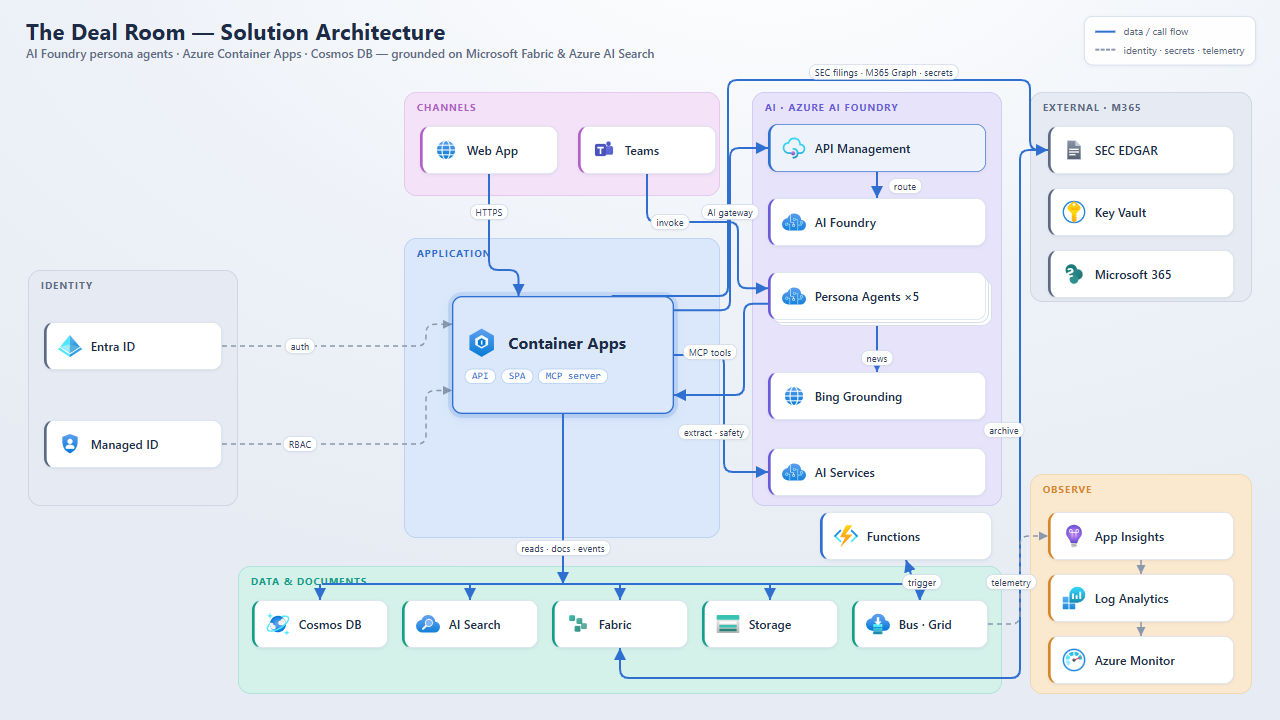
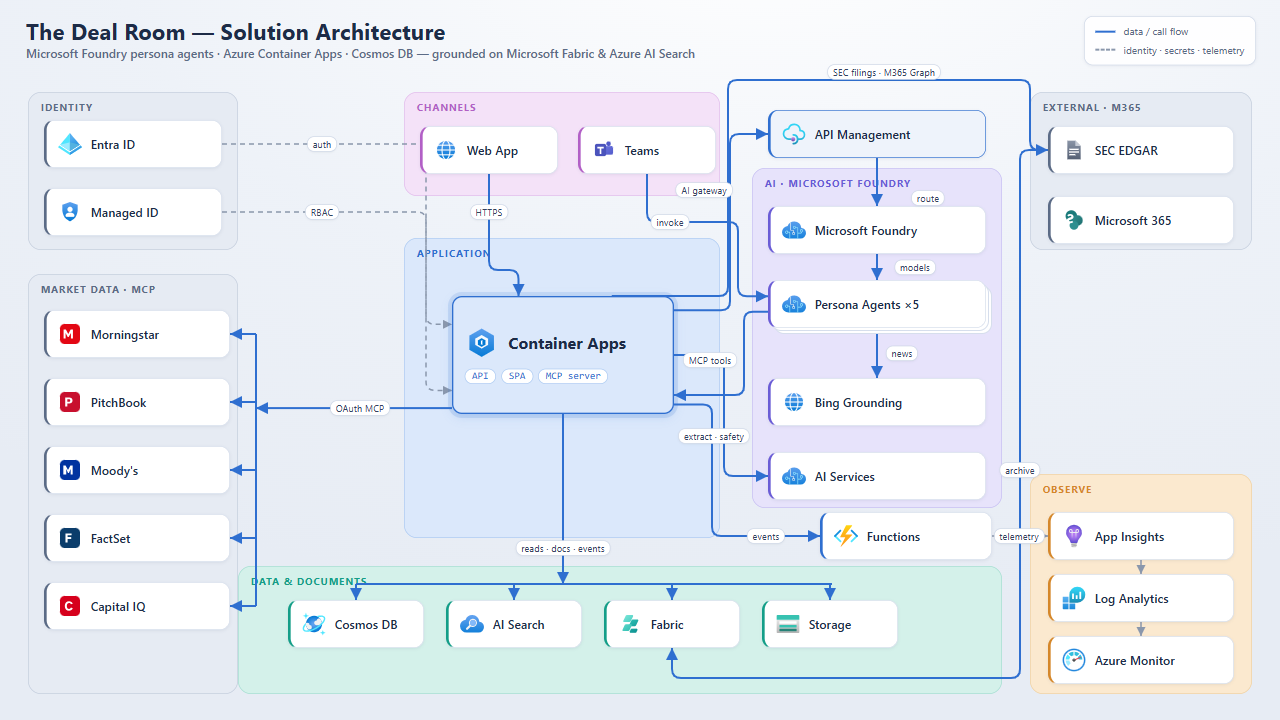
Revise slide diagram: APIM out of Foundry, Microsoft Foundry rename, MCP providers
Address review feedback on the slide architecture map:
- Move API Management OUT of the Foundry zone — it now sits as a standalone AI
  gateway in front of the zone (flow: Container Apps -> API Management -> Microsoft
  Foundry -> Persona Agents).
- Rename "Azure AI Foundry" -> "Microsoft Foundry" (node + zone), and the subtitle
  ("Microsoft Foundry persona agents").
- Remove Key Vault entirely (and drop "secrets" from the external spoke label).
- Remove Bus / Grid entirely; Functions is now fed by the app (deal events) and
  emits telemetry to App Insights.
- Update the Microsoft Fabric icon to an on-brand flowing-tile mark (teal/cyan).
- Add a "Market data - MCP" zone showing the five MCP providers (Morningstar,
  PitchBook, Moody's, FactSet, Capital IQ) connected to the app over an OAuth MCP
  bus, each with a brand lettermark icon.

Verified with Playwright: zero node overlaps, zero labels over nodes/zone headings,
APIM confirmed outside the Foundry zone. Re-exported PNG at 1280x720.

diff --git a/docs/architecture/deal-room-architecture-slide.html b/docs/architecture/deal-room-architecture-slide.html
@@ -2,152 +2,128 @@
 <html lang="en">
 <head>
 <meta charset="UTF-8">
-<title>The Deal Room — Production Architecture</title>
-<link rel="icon" href="data:,">
+<title>The Deal Room — Architecture Map</title>
 <style>
   :root{
-    --ink:#10213f; --dim:#52627d; --muted:#7c8aa2;
-    --app:#2563eb; --appbg:#dceafe; --appedge:#a9c8f2;
-    --ai:#6d5bd6; --aibg:#e9e4fb; --aiedge:#c7bff2;
-    --data:#0f9f89; --databg:#d7f2ec; --dataedge:#98dece;
-    --ext:#57667d; --extbg:#e7edf5; --extedge:#c2ccdb;
+    --ink:#1d2b47; --dim:#5b6b86;
+    --app:#2f6fd0; --appbg:#dbe8fb; --appedge:#a9c8f2;
+    --ai:#6a5cd6; --aibg:#e7e3fb; --aiedge:#c4bcf1;
+    --data:#149e88; --databg:#d4f1ea; --dataedge:#a1ddcf;
+    --ext:#5b6b86; --extbg:#e6ebf3; --extedge:#c2ccdb;
     --chan:#b25fc6; --chanbg:#f4e2f8; --chanedge:#e0b8ea;
-    --obs:#d18422; --obsbg:#fbe9cf; --obsedge:#efcc96;
-    --sec:#334155; --secbg:#e8edf5; --secedge:#c8d2e1;
-    --flow:#2563eb; --ctrl:#8a97ac; --ok:#0f766e; --warn:#b45309;
-    --card:#fff; --cardedge:#d7deea;
+    --obs:#d5872a; --obsbg:#fbe9cf; --obsedge:#f0cf9c;
+    --flow:#2f6fd0; --ctrl:#8a97ac;
+    --card:#ffffff; --cardedge:#d6deec;
   }
   *{box-sizing:border-box;margin:0;padding:0}
   html,body{background:#e7ecf4}
   #stage{position:relative;width:1280px;height:720px;overflow:hidden;color:var(--ink);
-    background:radial-gradient(1150px 680px at 58% -12%,#fff 0,#eef3f9 56%,#e7ecf4 100%);
+    background:radial-gradient(1200px 700px at 60% -12%,#ffffff 0,#eef2f8 55%,#e7ecf4 100%);
     font-family:"Segoe UI",Roboto,Helvetica,Arial,sans-serif;-webkit-font-smoothing:antialiased}
 
-  .h-title{position:absolute;left:26px;top:16px;font-size:22px;font-weight:750;letter-spacing:.15px;z-index:7}
-  .h-sub{position:absolute;left:26px;top:45px;font-size:12px;color:#33425e;font-weight:500;z-index:7}
-  .stamp{position:absolute;left:26px;top:66px;font-size:10px;color:var(--muted);z-index:7}
+  .h-title{position:absolute;left:26px;top:16px;font-size:22px;font-weight:700;letter-spacing:.2px;z-index:6}
+  .h-sub{position:absolute;left:26px;top:45px;font-size:12px;color:var(--dim);font-weight:500;z-index:6}
 
-  .zone{position:absolute;border-radius:14px;border:1px solid;z-index:1}
-  .zone .zh{position:absolute;top:8px;left:12px;font-size:9.5px;font-weight:800;letter-spacing:1.25px;text-transform:uppercase}
-  .zone .zn{position:absolute;right:12px;top:8px;font-size:9px;color:var(--muted);font-weight:650}
+  .zone{position:absolute;border-radius:13px;border:1px solid;z-index:1}
+  .zone .zh{position:absolute;top:8px;left:12px;font-size:9.5px;font-weight:700;letter-spacing:1.2px;text-transform:uppercase}
 
   .n{position:absolute;height:48px;background:var(--card);border:1px solid var(--cardedge);border-radius:10px;
-    display:flex;align-items:center;gap:9px;padding:0 10px;z-index:4;box-shadow:0 1px 3px rgba(16,33,63,.09)}
+    display:flex;align-items:center;gap:9px;padding:0 11px;z-index:4;box-shadow:0 1px 3px rgba(29,43,71,.08)}
   .n img{width:24px;height:24px;flex:0 0 auto}
-  .n b{font-size:12px;font-weight:650;line-height:1.12;letter-spacing:.05px}
-  .n small{display:block;color:var(--muted);font-size:9px;font-weight:600;line-height:1.15;margin-top:2px}
-  .n.t-app{border-left:3px solid var(--app)} .n.t-ai{border-left:3px solid var(--ai)}
-  .n.t-data{border-left:3px solid var(--data)} .n.t-ext{border-left:3px solid var(--ext)}
-  .n.t-chan{border-left:3px solid var(--chan)} .n.t-obs{border-left:3px solid var(--obs)}
-  .n.t-sec{border-left:3px solid var(--sec)}
-  .n.hub{height:126px;flex-direction:column;align-items:flex-start;justify-content:center;gap:8px;
-    background:var(--appbg);border:1.6px solid var(--app);box-shadow:0 0 0 4px rgba(37,99,235,.14),0 3px 12px rgba(37,99,235,.18);z-index:5}
+  .n b{font-size:12px;font-weight:600;line-height:1.15;letter-spacing:.1px}
+  .n.hub{height:118px;flex-direction:column;align-items:flex-start;justify-content:center;gap:8px;
+    background:var(--appbg);border:1.5px solid var(--app);box-shadow:0 0 0 4px rgba(47,111,208,.14),0 3px 10px rgba(47,111,208,.18);z-index:5}
   .n.hub .row{display:flex;align-items:center;gap:10px}
   .n.hub img{width:34px;height:34px}
-  .n.hub b{font-size:16px;font-weight:750}
-  .n.hub .eps{display:flex;flex-wrap:wrap;gap:5px;max-width:210px}
-  .n.hub .eps i{font-style:normal;font-size:9.5px;color:var(--app);background:#fff;border:1px solid #a9c8f2;border-radius:9px;padding:1px 6px;font-family:Consolas,monospace}
+  .n.hub b{font-size:16px;font-weight:700}
+  .n.hub .eps{display:flex;gap:5px}
+  .n.hub .eps i{font-style:normal;font-size:10px;color:#2f6fd0;background:#ffffff;
+    border:1px solid #a9c8f2;border-radius:9px;padding:1px 7px;font-family:Consolas,monospace}
   .n.stack{box-shadow:3px 3px 0 -1px var(--card),3px 3px 0 0 var(--cardedge),6px 6px 0 -1px var(--card),6px 6px 0 0 var(--cardedge)}
-  .n.gw{background:#eef4ff;border-color:var(--app)}
+  .n.gw{background:#eef3fb;border-color:var(--app)}
+  .n.t-ai{border-left:3px solid var(--ai)} .n.t-data{border-left:3px solid var(--data)}
+  .n.t-ext{border-left:3px solid var(--ext)} .n.t-chan{border-left:3px solid var(--chan)}
+  .n.t-obs{border-left:3px solid var(--obs)} .n.t-app{border-left:3px solid var(--app)}
 
   svg#wires{position:absolute;inset:0;width:1280px;height:720px;z-index:3;pointer-events:none}
-  .elabel{position:absolute;z-index:6;font-size:9px;color:#33425e;background:#fff;border:1px solid #ccd7e6;
-    border-radius:7px;padding:1px 5px;transform:translate(-50%,-50%);white-space:nowrap;letter-spacing:.15px;box-shadow:0 1px 2px rgba(16,33,63,.07)}
+  .elabel{position:absolute;z-index:4;font-size:9px;color:#33425e;background:#ffffff;border:1px solid #cdd6e6;
+    border-radius:7px;padding:1px 5px;transform:translate(-50%,-50%);white-space:nowrap;letter-spacing:.2px;box-shadow:0 1px 2px rgba(29,43,71,.06)}
 
-  .legend{position:absolute;right:24px;top:16px;z-index:7;display:flex;flex-direction:column;gap:5px;
-    background:rgba(255,255,255,.92);border:1px solid #cdd6e6;border-radius:10px;padding:8px 11px;box-shadow:0 1px 4px rgba(16,33,63,.09)}
+  .legend{position:absolute;right:24px;top:16px;z-index:6;display:flex;flex-direction:column;gap:5px;
+    background:rgba(255,255,255,.9);border:1px solid #cdd6e6;border-radius:9px;padding:8px 11px;box-shadow:0 1px 3px rgba(29,43,71,.08)}
   .legend .lr{display:flex;align-items:center;gap:8px;font-size:10px;color:var(--dim)}
-  .legend .sw{width:21px;height:0;border-top:2px solid var(--flow)}
+  .legend .sw{width:20px;height:0;border-top:2px solid var(--flow)}
   .legend .sw.d{border-top:2px dashed var(--ctrl)}
-  .legend .sw.g{border-top:2px solid var(--ok)}
-
-  .callout{position:absolute;z-index:6;border-radius:9px;border:1px solid #c8d2e1;background:rgba(255,255,255,.88);
-    padding:7px 10px;font-size:10px;line-height:1.25;color:#33425e;box-shadow:0 1px 3px rgba(16,33,63,.07)}
-  .callout b{color:var(--ink)}
 </style>
 </head>
 <body>
 <div id="stage">
-  <div class="h-title">The Deal Room — Production Solution Architecture</div>
-  <div class="h-sub">AI-native PE deal flow from sourcing to Investment Committee — governed records, cited evidence and persona-scoped agents</div>
-  <div class="stamp">Current implementation: Container Apps · Cosmos authoritative state · Azure AI Search · Fabric / OneLake · MCP persona surfaces</div>
+  <div class="h-title">The Deal Room — Solution Architecture</div>
+  <div class="h-sub">Microsoft Foundry persona agents · Azure Container Apps · Cosmos DB — grounded on Microsoft Fabric &amp; Azure AI Search</div>
   <div class="legend">
     <div class="lr"><span class="sw"></span> data / call flow</div>
     <div class="lr"><span class="sw d"></span> identity · secrets · telemetry</div>
-    <div class="lr"><span class="sw g"></span> evidence / documents</div>
   </div>
 
   <!-- ZONES -->
-  <div class="zone" style="left:258px;top:88px;width:300px;height:110px;background:var(--chanbg);border-color:var(--chanedge)">
-    <div class="zh" style="color:var(--chan)">Channels</div><div class="zn">users</div>
-  </div>
-  <div class="zone" style="left:360px;top:226px;width:334px;height:254px;background:var(--appbg);border-color:var(--appedge)">
-    <div class="zh" style="color:var(--app)">Application platform</div><div class="zn">runtime</div>
-  </div>
-  <div class="zone" style="left:26px;top:236px;width:218px;height:314px;background:var(--secbg);border-color:var(--secedge)">
-    <div class="zh" style="color:var(--sec)">Identity & security</div><div class="zn">zero trust</div>
-  </div>
-  <div class="zone" style="left:724px;top:82px;width:286px;height:418px;background:var(--aibg);border-color:var(--aiedge)">
-    <div class="zh" style="color:var(--ai)">AI & agents</div><div class="zn">Foundry</div>
-  </div>
-  <div class="zone" style="left:238px;top:516px;width:772px;height:176px;background:var(--databg);border-color:var(--dataedge)">
-    <div class="zh" style="color:var(--data)">Governed data, evidence & integration</div><div class="zn">state · docs · events</div>
-  </div>
-  <div class="zone" style="left:1030px;top:88px;width:222px;height:270px;background:var(--extbg);border-color:var(--extedge)">
-    <div class="zh" style="color:var(--ext)">External systems</div><div class="zn">SaaS / data</div>
-  </div>
-  <div class="zone" style="left:1030px;top:428px;width:222px;height:264px;background:var(--obsbg);border-color:var(--obsedge)">
-    <div class="zh" style="color:var(--obs)">Operate & observe</div><div class="zn">SRE</div>
-  </div>
+  <div class="zone" style="left:404px;top:92px;width:316px;height:104px;background:var(--chanbg);border-color:var(--chanedge)"><div class="zh" style="color:var(--chan)">Channels</div></div>
+  <div class="zone" style="left:404px;top:238px;width:316px;height:300px;background:var(--appbg);border-color:var(--appedge)"><div class="zh" style="color:var(--app)">Application</div></div>
+  <div class="zone" style="left:28px;top:92px;width:210px;height:158px;background:var(--extbg);border-color:var(--extedge)"><div class="zh" style="color:var(--ext)">Identity</div></div>
+  <div class="zone" style="left:28px;top:274px;width:210px;height:420px;background:var(--extbg);border-color:var(--extedge)"><div class="zh" style="color:var(--ext)">Market data · MCP</div></div>
+  <div class="zone" style="left:752px;top:168px;width:250px;height:340px;background:var(--aibg);border-color:var(--aiedge)"><div class="zh" style="color:var(--ai)">AI · Microsoft Foundry</div></div>
+  <div class="zone" style="left:238px;top:566px;width:764px;height:128px;background:var(--databg);border-color:var(--dataedge)"><div class="zh" style="color:var(--data)">Data &amp; Documents</div></div>
+  <div class="zone" style="left:1030px;top:92px;width:222px;height:158px;background:var(--extbg);border-color:var(--extedge)"><div class="zh" style="color:var(--ext)">External · M365</div></div>
+  <div class="zone" style="left:1030px;top:474px;width:222px;height:220px;background:var(--obsbg);border-color:var(--obsedge)"><div class="zh" style="color:var(--obs)">Observe</div></div>
 
   <svg id="wires"></svg>
 
-  <!-- CHANNELS -->
-  <div class="n t-chan" id="web" style="left:276px;top:126px;width:126px"><img src="icons/web.svg"><b>Web App<small>SPA + API</small></b></div>
-  <div class="n t-chan" id="teams" style="left:418px;top:126px;width:122px"><img src="icons/teams.svg"><b>Teams<small>persona agents</small></b></div>
+  <!-- CHANNELS (top) -->
+  <div class="n t-chan" id="web"   style="left:420px;top:126px;width:138px"><img src="icons/web.svg"><b>Web App</b></div>
+  <div class="n t-chan" id="teams" style="left:578px;top:126px;width:138px"><img src="icons/teams.svg"><b>Teams</b></div>
 
-  <!-- IDENTITY & SECURITY -->
-  <div class="n t-sec" id="entra" style="left:44px;top:286px;width:178px"><img src="icons/entra.svg"><b>Entra ID<small>app + MCP auth</small></b></div>
-  <div class="n t-sec" id="mi" style="left:44px;top:352px;width:178px"><img src="icons/managedidentity.svg"><b>Managed Identity<small>RBAC data plane</small></b></div>
-  <div class="n t-sec" id="kv" style="left:44px;top:418px;width:178px"><img src="icons/keyvault.svg"><b>Key Vault<small>secrets + keys</small></b></div>
-  <div class="n t-sec" id="net" style="left:44px;top:484px;width:178px"><img src="icons/privatelink.svg"><b>VNet / Private Link<small>prod option</small></b></div>
-
-  <!-- APPLICATION -->
-  <div class="n hub" id="ca" style="left:405px;top:286px;width:246px">
+  <!-- APPLICATION HUB (center) -->
+  <div class="n hub" id="ca" style="left:452px;top:296px;width:222px">
     <div class="row"><img src="icons/containerapps.svg"><b>Container Apps</b></div>
-    <div class="eps"><i>SPA</i><i>API</i><i>/mcp</i><i>/mcp-ro</i><i>/mcp-persona</i></div>
-    <small style="padding-left:44px;color:#39516f">1–3 replicas · Cosmos _etag writes</small>
+    <div class="eps"><i>API</i><i>SPA</i><i>MCP server</i></div>
   </div>
-  <div class="n t-app" id="acr" style="left:418px;top:424px;width:126px"><img src="icons/acr.svg"><b>ACR<small>app image</small></b></div>
-  <div class="n t-app" id="func" style="left:836px;top:498px;width:158px"><img src="icons/function.svg"><b>Functions<small>event glue</small></b></div>
 
-  <!-- AI & AGENTS -->
-  <div class="n gw t-app" id="apim" style="left:746px;top:122px;width:238px"><img src="icons/apim.svg"><b>API Management<small>AI gateway policy</small></b></div>
-  <div class="n t-ai" id="foundry" style="left:746px;top:194px;width:238px"><img src="icons/cognitive.svg"><b>Azure AI Foundry<small>model deployments</small></b></div>
-  <div class="n t-ai stack" id="agents" style="left:746px;top:266px;width:238px"><img src="icons/cognitive.svg"><b>Persona Agents ×5<small>analyst · partner · MDs</small></b></div>
-  <div class="n t-ai" id="bing" style="left:746px;top:358px;width:238px"><img src="icons/web.svg"><b>Bing Grounding<small>news scout</small></b></div>
-  <div class="n t-ai" id="aisvcs" style="left:746px;top:430px;width:238px"><img src="icons/cognitive.svg"><b>AI Services<small>DI · safety · speech</small></b></div>
+  <!-- IDENTITY (left, top) -->
+  <div class="n t-ext" id="entra" style="left:44px;top:120px;width:178px"><img src="icons/entra.svg"><b>Entra ID</b></div>
+  <div class="n t-ext" id="mi"    style="left:44px;top:188px;width:178px"><img src="icons/managedidentity.svg"><b>Managed ID</b></div>
 
-  <!-- DATA & INTEGRATION -->
-  <div class="n t-data" id="cosmos" style="left:254px;top:570px;width:136px"><img src="icons/cosmos.svg"><b>Cosmos DB<small>state + events</small></b></div>
-  <div class="n t-data" id="search" style="left:404px;top:570px;width:136px"><img src="icons/search.svg"><b>AI Search<small>CIM + CRM RAG</small></b></div>
-  <div class="n t-data" id="fabric" style="left:554px;top:570px;width:136px"><img src="icons/fabric.svg"><b>Fabric / OneLake<small>market intel</small></b></div>
-  <div class="n t-data" id="storage" style="left:704px;top:570px;width:136px"><img src="icons/storage.svg"><b>ADLS / Blob<small>landing + archive</small></b></div>
-  <div class="n t-data" id="msg" style="left:854px;top:570px;width:136px"><img src="icons/servicebus.svg"><b>Bus · Event Grid<small>deal events</small></b></div>
+  <!-- MARKET-DATA MCP PROVIDERS (left, bottom) -->
+  <div class="n t-ext" id="morningstar" style="left:44px;top:310px;width:186px"><img src="icons/morningstar.svg"><b>Morningstar</b></div>
+  <div class="n t-ext" id="pitchbook"   style="left:44px;top:378px;width:186px"><img src="icons/pitchbook.svg"><b>PitchBook</b></div>
+  <div class="n t-ext" id="moodys"      style="left:44px;top:446px;width:186px"><img src="icons/moodys.svg"><b>Moody&#39;s</b></div>
+  <div class="n t-ext" id="factset"     style="left:44px;top:514px;width:186px"><img src="icons/factset.svg"><b>FactSet</b></div>
+  <div class="n t-ext" id="capitaliq"   style="left:44px;top:582px;width:186px"><img src="icons/capitaliq.svg"><b>Capital IQ</b></div>
 
-  <!-- EXTERNAL -->
-  <div class="n t-ext" id="edgar" style="left:1048px;top:126px;width:186px"><img src="icons/edgar.svg"><b>SEC EDGAR<small>10-K/Q · Form D</small></b></div>
-  <div class="n t-ext" id="m365" style="left:1048px;top:206px;width:186px"><img src="icons/sharepoint.svg"><b>Microsoft 365<small>Teams · SP · mail</small></b></div>
-  <div class="n t-ext" id="providers" style="left:1048px;top:286px;width:186px"><img src="icons/web.svg"><b>MCP Data Providers<small>Morningstar · LSEG</small></b></div>
+  <!-- API MANAGEMENT — AI gateway, in front of Foundry (not inside it) -->
+  <div class="n gw t-app" id="apim" style="left:768px;top:110px;width:218px"><img src="icons/apim.svg"><b>API Management</b></div>
 
-  <!-- OBSERVABILITY -->
-  <div class="n t-obs" id="appins" style="left:1048px;top:468px;width:186px"><img src="icons/appinsights.svg"><b>App Insights<small>traces + metrics</small></b></div>
-  <div class="n t-obs" id="law" style="left:1048px;top:548px;width:186px"><img src="icons/loganalytics.svg"><b>Log Analytics<small>central logs</small></b></div>
-  <div class="n t-obs" id="mon" style="left:1048px;top:628px;width:186px"><img src="icons/monitor.svg"><b>Azure Monitor<small>alerts + workbooks</small></b></div>
+  <!-- AI · MICROSOFT FOUNDRY -->
+  <div class="n t-ai" id="foundry"      style="left:768px;top:206px;width:218px"><img src="icons/cognitive.svg"><b>Microsoft Foundry</b></div>
+  <div class="n t-ai stack" id="agents" style="left:768px;top:280px;width:218px"><img src="icons/cognitive.svg"><b>Persona Agents ×5</b></div>
+  <div class="n t-ai" id="bing"         style="left:768px;top:378px;width:218px"><img src="icons/web.svg"><b>Bing Grounding</b></div>
+  <div class="n t-ai" id="aisvcs"       style="left:768px;top:452px;width:218px"><img src="icons/cognitive.svg"><b>AI Services</b></div>
 
-  <div class="callout" style="left:626px;top:18px;width:318px">
-    <b>Production controls:</b> RBAC, cited evidence, durable state, explicit health and telemetry.
-  </div>
+  <!-- DATA & DOCUMENTS (bottom band) -->
+  <div class="n t-data" id="cosmos"  style="left:288px;top:600px;width:136px"><img src="icons/cosmos.svg"><b>Cosmos DB</b></div>
+  <div class="n t-data" id="search"  style="left:446px;top:600px;width:136px"><img src="icons/search.svg"><b>AI Search</b></div>
+  <div class="n t-data" id="fabric"  style="left:604px;top:600px;width:136px"><img src="icons/fabric.svg"><b>Fabric</b></div>
+  <div class="n t-data" id="storage" style="left:762px;top:600px;width:136px"><img src="icons/storage.svg"><b>Storage</b></div>
+
+  <!-- FUNCTIONS (event handler) -->
+  <div class="n t-app" id="func" style="left:820px;top:512px;width:172px"><img src="icons/function.svg"><b>Functions</b></div>
+
+  <!-- EXTERNAL · M365 (top-right) -->
+  <div class="n t-ext" id="edgar" style="left:1048px;top:126px;width:186px"><img src="icons/edgar.svg"><b>SEC EDGAR</b></div>
+  <div class="n t-ext" id="m365"  style="left:1048px;top:196px;width:186px"><img src="icons/sharepoint.svg"><b>Microsoft 365</b></div>
+
+  <!-- OBSERVE (bottom-right) -->
+  <div class="n t-obs" id="appins" style="left:1048px;top:512px;width:186px"><img src="icons/appinsights.svg"><b>App Insights</b></div>
+  <div class="n t-obs" id="law"    style="left:1048px;top:574px;width:186px"><img src="icons/loganalytics.svg"><b>Log Analytics</b></div>
+  <div class="n t-obs" id="mon"    style="left:1048px;top:636px;width:186px"><img src="icons/monitor.svg"><b>Azure Monitor</b></div>
 </div>
 
 <script>
@@ -155,9 +131,8 @@ const SVGNS='http://www.w3.org/2000/svg';
 const stage=document.getElementById('stage'), svg=document.getElementById('wires');
 const defs=document.createElementNS(SVGNS,'defs');
 defs.innerHTML=
- '<marker id="af" markerWidth="8" markerHeight="8" refX="6" refY="3" orient="auto"><path d="M0,0 L6,3 L0,6 Z" fill="#2563eb"/></marker>'+
- '<marker id="ac" markerWidth="8" markerHeight="8" refX="6" refY="3" orient="auto"><path d="M0,0 L6,3 L0,6 Z" fill="#8a97ac"/></marker>'+
- '<marker id="ag" markerWidth="8" markerHeight="8" refX="6" refY="3" orient="auto"><path d="M0,0 L6,3 L0,6 Z" fill="#0f766e"/></marker>';
+ '<marker id="af" markerWidth="8" markerHeight="8" refX="6" refY="3" orient="auto"><path d="M0,0 L6,3 L0,6 Z" fill="#2f6fd0"/></marker>'+
+ '<marker id="ac" markerWidth="8" markerHeight="8" refX="6" refY="3" orient="auto"><path d="M0,0 L6,3 L0,6 Z" fill="#8a97ac"/></marker>';
 svg.appendChild(defs);
 
 function box(id){const s=stage.getBoundingClientRect(),r=document.getElementById(id).getBoundingClientRect();
@@ -165,7 +140,7 @@ function box(id){const s=stage.getBoundingClientRect(),r=document.getElementById
 function pt(id,side,frac){const b=box(id);frac=frac==null?0.5:frac;
   if(side==='r')return{x:b.r,y:b.t+b.h*frac}; if(side==='l')return{x:b.l,y:b.t+b.h*frac};
   if(side==='t')return{x:b.l+b.w*frac,y:b.t};   return{x:b.l+b.w*frac,y:b.b};}
-function ortho(points,r=8){
+function ortho(points,r=9){
   let d=`M ${points[0].x} ${points[0].y}`;
   for(let i=1;i<points.length-1;i++){
     const p=points[i],a=points[i-1],b=points[i+1];
@@ -175,13 +150,12 @@ function ortho(points,r=8){
   }
   const e=points[points.length-1]; d+=` L ${e.x} ${e.y}`; return d;
 }
-function line(points,{ctrl=false,evidence=false,arrow=true}={}){
+function line(points,{ctrl=false,arrow=true}={}){
   const p=document.createElementNS(SVGNS,'path');
   p.setAttribute('d',ortho(points)); p.setAttribute('fill','none');
-  p.setAttribute('stroke',evidence?'#0f766e':ctrl?'#8a97ac':'#2563eb');
-  p.setAttribute('stroke-width',ctrl?1.5:2);
+  p.setAttribute('stroke',ctrl?'#8a97ac':'#2f6fd0'); p.setAttribute('stroke-width',ctrl?1.5:2);
   if(ctrl)p.setAttribute('stroke-dasharray','5 4');
-  if(arrow)p.setAttribute('marker-end',evidence?'url(#ag)':ctrl?'url(#ac)':'url(#af)');
+  if(arrow)p.setAttribute('marker-end',ctrl?'url(#ac)':'url(#af)');
   svg.appendChild(p);
 }
 function tag(x,y,text){const t=document.createElement('div');t.className='elabel';t.textContent=text;
@@ -190,50 +164,53 @@ function wire(points,opt={}){line(points,opt); if(opt.label){const i=Math.max(1,
   const m=points[i-1],n=points[i]; tag(opt.lx!=null?opt.lx:(m.x+n.x)/2, opt.ly!=null?opt.ly:(m.y+n.y)/2, opt.label);}}
 
 requestAnimationFrame(()=>{
-  // Channels to application / agents.
-  wire([pt('web','b'),{x:pt('web','b').x,y:250},{x:pt('ca','t',0.28).x,y:250},pt('ca','t',0.28)],{label:'HTTPS',lx:338,ly:215});
-  wire([pt('teams','b'),{x:pt('teams','b').x,y:226},{x:720,y:226},{x:720,y:pt('agents','l',0.38).y},pt('agents','l',0.38)],{label:'Teams channel',lx:632,ly:226});
+  // ===== NORTH: channels -> hub / agents =====
+  wire([pt('web','b',0.5),{x:pt('web','b').x,y:270},{x:pt('ca','t',0.30).x,y:270},pt('ca','t',0.30)],{label:'HTTPS',lx:pt('web','b').x,ly:212});
+  wire([pt('teams','b',0.5),{x:pt('teams','b').x,y:222},{x:738,y:222},{x:738,y:pt('agents','l',0.34).y},pt('agents','l',0.34)],{label:'invoke',lx:670,ly:222});
 
-  // Identity, secrets and network controls.
-  wire([pt('entra','r'),{x:342,y:pt('entra','r').y},{x:342,y:pt('ca','l',0.24).y},pt('ca','l',0.24)],{ctrl:true,label:'OIDC / auth',lx:284,ly:pt('entra','r').y});
-  wire([pt('mi','r'),{x:332,y:pt('mi','r').y},{x:332,y:548},{x:pt('cosmos','t').x,y:548},pt('cosmos','t')],{ctrl:true,label:'RBAC',lx:297,ly:362});
-  wire([pt('kv','r'),{x:350,y:pt('kv','r').y},{x:350,y:pt('ca','l',0.66).y},pt('ca','l',0.66)],{ctrl:true,label:'secrets',lx:298,ly:418});
-  wire([pt('net','r'),{x:350,y:pt('net','r').y},{x:350,y:pt('storage','t').y-18},{x:pt('storage','t').x,y:pt('storage','t').y-18},pt('storage','t')],{ctrl:true,label:'private endpoints',lx:528,ly:500});
+  // ===== WEST-TOP: identity -> hub (dashed) =====
+  wire([pt('entra','r'),{x:426,y:pt('entra','r').y},{x:426,y:pt('ca','l',0.24).y},pt('ca','l',0.24)],{ctrl:true,label:'auth',lx:322,ly:pt('entra','r').y});
+  wire([pt('mi','r'),{x:426,y:pt('mi','r').y},{x:426,y:pt('ca','l',0.80).y},pt('ca','l',0.80)],{ctrl:true,label:'RBAC',lx:322,ly:pt('mi','r').y});
 
-  // Application to AI tier.
-  wire([pt('ca','r',0.14),{x:708,y:pt('ca','r',0.14).y},{x:708,y:pt('apim','l').y},pt('apim','l')],{label:'LLM gateway',lx:707,ly:215});
-  wire([pt('apim','b',0.5),pt('foundry','t',0.5)],{label:'route',lx:865,ly:185});
-  wire([pt('foundry','b',0.5),pt('agents','t',0.5)],{label:'agents',lx:865,ly:257});
-  wire([pt('agents','l',0.68),{x:714,y:pt('agents','l',0.68).y},{x:714,y:pt('ca','r',0.78).y},pt('ca','r',0.78)],{label:'MCP tools',lx:695,ly:354});
-  wire([pt('agents','b',0.5),pt('bing','t',0.5)],{label:'news',lx:865,ly:346});
-  wire([pt('ca','r',0.48),{x:704,y:pt('ca','r',0.48).y},{x:704,y:pt('aisvcs','l').y},pt('aisvcs','l')],{label:'extract · safety',lx:704,ly:430});
+  // ===== WEST-BOTTOM: app <-> market-data MCP providers (OAuth MCP bus) =====
+  const mcpX=256;
+  // feeder from the hub to the MCP rail
+  line([pt('ca','l',0.95),{x:mcpX,y:pt('ca','l',0.95).y}]);
+  tag(360,pt('ca','l',0.95).y,'OAuth MCP');
+  // vertical rail spanning the five providers, then a short tap into each (app calls out)
+  const provs=['morningstar','pitchbook','moodys','factset','capitaliq'];
+  const railTop=pt('morningstar','l').y, railBot=pt('capitaliq','l').y;
+  line([{x:mcpX,y:railTop},{x:mcpX,y:railBot}],{arrow:false});
+  provs.forEach(id=>{const p=pt(id,'r'); line([{x:mcpX,y:p.y},p]);});
 
-  // Application to governed data plane.
-  const busY=548;
-  line([pt('ca','b',0.48),{x:pt('ca','b',0.48).x,y:busY}],{arrow:false});
-  tag(pt('ca','b',0.48).x,504,'state · docs · events');
-  line([{x:322,y:busY},{x:924,y:busY}],{arrow:false});
-  ['cosmos','search','fabric','storage','msg'].forEach(id=>{const p=pt(id,'t'); line([{x:p.x,y:busY},p]);});
-  wire([pt('acr','t'),{x:pt('acr','t').x,y:396},{x:pt('ca','b',0.22).x,y:396},pt('ca','b',0.22)],{ctrl:true});
-  wire([pt('msg','t'),pt('func','b')],{label:'trigger',lx:928,ly:534});
+  // ===== EAST: hub -> APIM (AI gateway) -> Foundry -> agents; agents -> hub (MCP); hub -> AI Services =====
+  wire([pt('ca','r',0.12),{x:730,y:pt('ca','r',0.12).y},{x:730,y:pt('apim','l').y},pt('apim','l')],{label:'AI gateway',lx:704,ly:190});
+  wire([pt('apim','b',0.5),pt('foundry','t',0.5)],{label:'route',lx:928,ly:198});
+  wire([pt('foundry','b',0.5),pt('agents','t',0.5)],{label:'models',lx:915,ly:267});
+  wire([pt('agents','l',0.66),{x:744,y:pt('agents','l',0.66).y},{x:744,y:pt('ca','r',0.84).y},pt('ca','r',0.84)],{label:'MCP tools',lx:710,ly:360});
+  wire([pt('ca','r',0.5),{x:724,y:pt('ca','r',0.5).y},{x:724,y:pt('aisvcs','l').y},pt('aisvcs','l')],{label:'extract · safety',lx:714,ly:436});
+  wire([pt('agents','b',0.5),pt('bing','t',0.5)],{label:'news',lx:902,ly:353});
 
-  // Evidence/document flows.
-  wire([pt('storage','l',0.35),{x:640,y:pt('storage','l',0.35).y},{x:640,y:pt('search','r',0.35).y},pt('search','r',0.35)],{evidence:true,label:'indexed docs',lx:620,ly:585});
-  wire([pt('search','r',0.72),{x:548,y:pt('search','r',0.72).y},{x:548,y:pt('ca','b',0.38).y},pt('ca','b',0.38)],{evidence:true,label:'cited docs',lx:500,ly:526});
-  wire([pt('fabric','t'),{x:pt('fabric','t').x,y:502},{x:650,y:502},{x:650,y:pt('ca','b',0.62).y},pt('ca','b',0.62)],{evidence:true,label:'market intel',lx:638,ly:516});
+  // ===== SOUTH: hub -> data (single feeder onto a bus, short taps) =====
+  const busY=584;
+  line([pt('ca','b',0.5),{x:pt('ca','b').x,y:busY}]);
+  tag(pt('ca','b').x,548,'reads · docs · events');
+  line([{x:356,y:busY},{x:832,y:busY}],{arrow:false});
+  ['cosmos','search','fabric','storage'].forEach(id=>{const b=pt(id,'t',0.5);line([{x:b.x,y:busY},b]);});
 
-  // External integrations.
-  wire([pt('ca','r',0.30),{x:1018,y:pt('ca','r',0.30).y},{x:1018,y:pt('m365','l').y},pt('m365','l')],{label:'Graph: Teams / SP / mail',lx:998,ly:244});
-  wire([pt('ca','r',0.58),{x:1018,y:pt('ca','r',0.58).y},{x:1018,y:pt('providers','l').y},pt('providers','l')],{label:'OAuth MCP',lx:995,ly:322});
-  wire([pt('ca','r',0.42),{x:1008,y:pt('ca','r',0.42).y},{x:1008,y:pt('edgar','l').y},pt('edgar','l')],{label:'filings',lx:1006,ly:152});
-  wire([pt('edgar','l',0.72),{x:1014,y:pt('edgar','l',0.72).y},{x:1014,y:690},{x:pt('fabric','b').x,y:690},pt('fabric','b')],{evidence:true,label:'archive to OneLake',lx:968,ly:682});
-  wire([pt('m365','l',0.72),{x:1014,y:pt('m365','l',0.72).y},{x:1014,y:488},{x:pt('search','t').x,y:488},pt('search','t')],{evidence:true,label:'CRM index',lx:750,ly:488});
+  // ===== product-to-product =====
+  // app -> Functions (deal events) ; Functions -> telemetry
+  wire([pt('ca','r',0.92),{x:712,y:pt('ca','r',0.92).y},{x:712,y:536},{x:pt('func','l').x,y:536},pt('func','l')],{label:'events',lx:766,ly:536});
+  wire([pt('edgar','l'),{x:1020,y:pt('edgar','l').y},{x:1020,y:678},{x:pt('fabric','b').x,y:678},pt('fabric','b',0.5)],{label:'archive',lx:1020,ly:470});
 
-  // Observability.
-  wire([pt('ca','r',0.86),{x:1018,y:pt('ca','r',0.86).y},{x:1018,y:pt('appins','l').y},pt('appins','l')],{ctrl:true,label:'telemetry',lx:1010,ly:468});
-  wire([pt('func','r'),{x:1018,y:pt('func','r').y},{x:1018,y:pt('appins','l',0.72).y},pt('appins','l',0.72)],{ctrl:true});
-  wire([pt('appins','b'),pt('law','t')],{ctrl:true});
-  wire([pt('law','b'),pt('mon','t')],{ctrl:true});
+  // ===== NORTH-EAST: single grouped spoke, app -> external systems (top channel) =====
+  wire([pt('ca','t',0.72),{x:728,y:pt('ca','t',0.72).y},{x:728,y:80},{x:1030,y:80},{x:1030,y:pt('edgar','l',0.5).y},pt('edgar','l')],{});
+  tag(884,72,'SEC filings · M365 Graph');
+
+  // ===== SOUTH-EAST: observability (telemetry from Functions, then chain) =====
+  wire([pt('func','r',0.5),{x:1020,y:pt('func','r',0.5).y},{x:1020,y:pt('appins','l').y},pt('appins','l')],{ctrl:true,label:'telemetry',lx:1019,ly:536});
+  wire([pt('appins','b',0.5),pt('law','t',0.5)],{ctrl:true});
+  wire([pt('law','b',0.5),pt('mon','t',0.5)],{ctrl:true});
 });
 </script>
 </body>